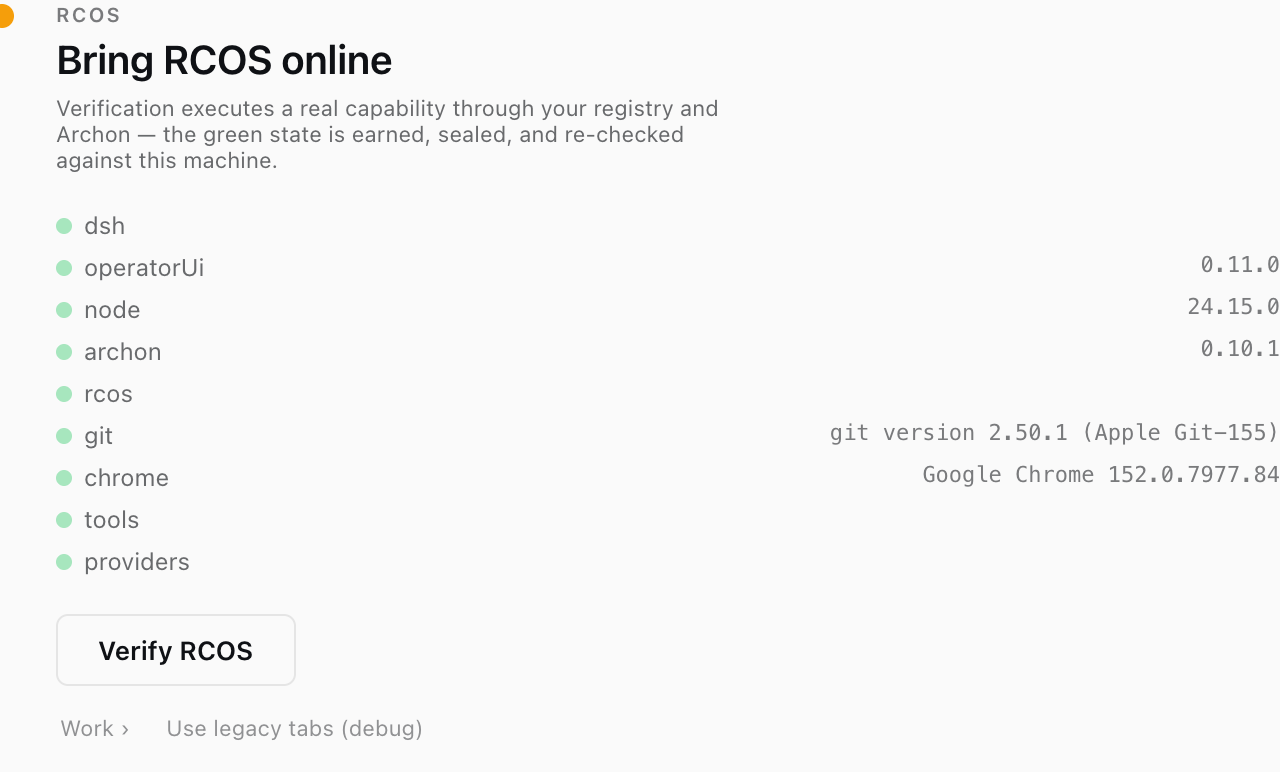
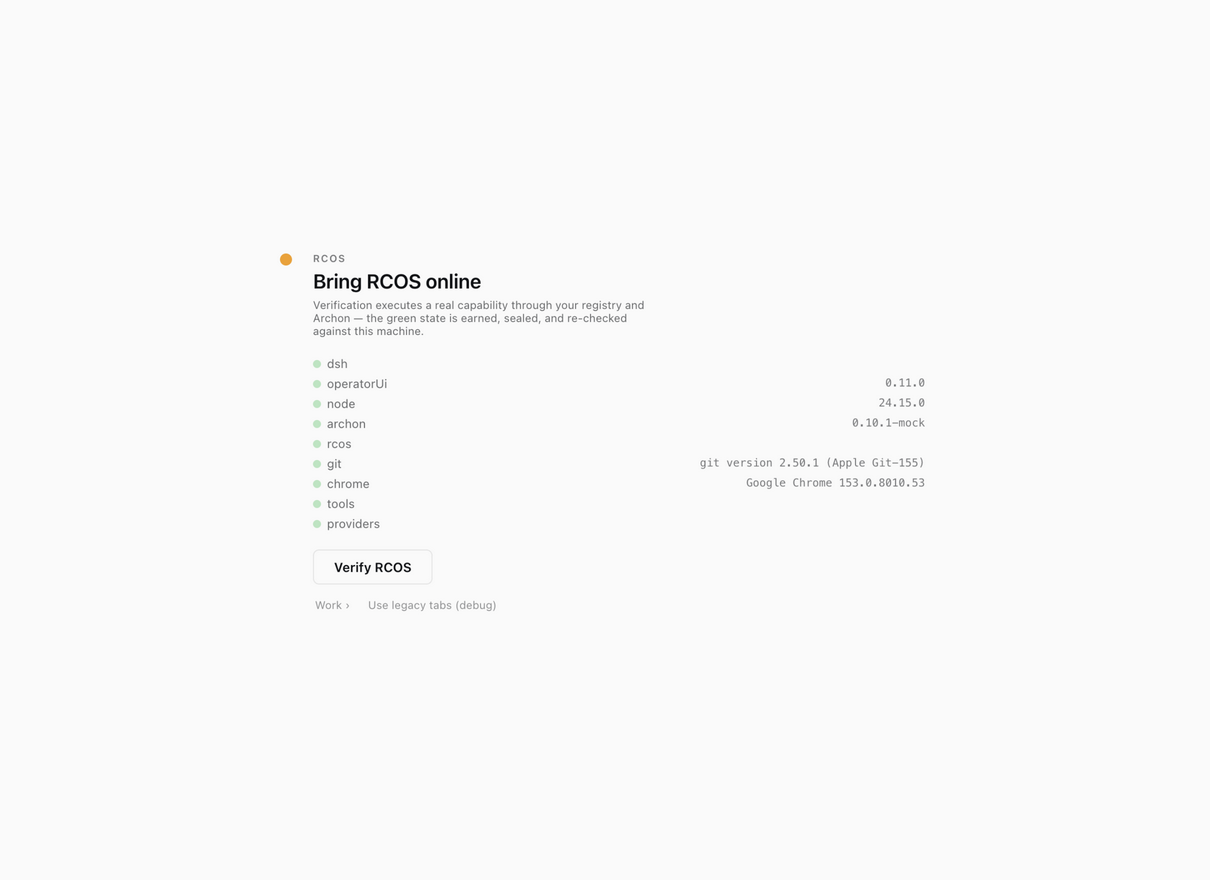
ui(RC): four release-blocking UI fixes + seven refreshed fixture captures + README truth pass — contract check PASS

diff --git a/lib/client.js b/lib/client.js
@@ -101,6 +101,12 @@ window.__ModuleLoader__.load({
 .opui-gate{position:fixed;inset:0;z-index:10000;display:flex;align-items:center;justify-content:center;background:var(--dsw-static-neutral-50,#f6f8fa);overflow:auto;padding:24px}
 body[data-ds-dark-theme] .opui-gate{background:var(--dsw-static-neutral-900,#0d1117)}
 .opui-gate-inner{max-width:1100px;width:100%;margin:auto}
+/* shell presentation overrides — this style element appends after vendor CSS,
+   so same-specificity ties win here without touching component markup */
+.wSkVaW_tabs{overflow-x:auto;scroll-behavior:smooth;scrollbar-width:thin}
+.wSkVaW_tabs::-webkit-scrollbar{height:6px}
+.wSkVaW_tabs::-webkit-scrollbar-thumb{background:rgba(128,128,128,.45);border-radius:3px}
+.FJxK0a_root{text-overflow:ellipsis}
 /* vertical execution spine — the visual hero */
 .opui-spine{position:relative;padding-left:4px}
 .opui-stage{position:relative;padding:0 0 20px 26px;border-left:2px solid var(--dsw-static-neutral-200,#eaeef2)}
@@ -1703,7 +1709,7 @@ body[data-ds-dark-theme] .opui-wf-art{border-color:var(--dsw-static-neutral-700,
               h('div', { className: 'opui-stage-title', style: { fontSize: 18 } }, heroTitle[0]),
               h('div', { className: 'opui-sub', style: { marginTop: 2 } }, heroSub))),
           h('div', { style: { display: 'flex', gap: 14, alignItems: 'center', marginTop: 10, flexWrap: 'wrap' } },
-            h('button', { className: 'opui-btn', onClick: runVerify }, 'Verify again'),
+            h('button', { className: 'opui-btn', onClick: runVerify }, rec ? 'Verify again' : 'Verify'),
             rec ? h('span', { className: 'opui-meta' },
               'Receipt ' + fresh.toLowerCase() + ' \u00b7 ' + ((rec.seal && rec.seal.hash) || '').slice(7, 23) + '\u2026') : null)),
         fresh === 'STALE' && vr && vr.staleReasons && vr.staleReasons.length > 1 ? h('div', { className: 'opui-meta', style: { marginBottom: 12 } },
@@ -1785,6 +1791,11 @@ body[data-ds-dark-theme] .opui-wf-art{border-color:var(--dsw-static-neutral-700,
       // on Work, not on the DSH home. The DSH shell stays reachable via the
       // nav's explicit 'DSH home' escape — preserved, never the default.
       const [open, setOpen] = useState('work'); // 'work' | 'intelligence' | 'system' | null (null = DSH shell)
+      // The gate's "Work ›" escape hatch must be distinguishable from the
+      // default landing surface: open already starts at 'work', so setOpen
+      // alone bails and the gate never yields. peeked records the explicit
+      // open; returning to the shell (open === null) puts the gate back.
+      const [peeked, setPeeked] = useState(false);
       const { vr, reload } = useReceiptGate();
       const [justVerified, setJustVerified] = useState(false);
       const gateRunRef = useRef(false);
@@ -1815,7 +1826,7 @@ body[data-ds-dark-theme] .opui-wf-art{border-color:var(--dsw-static-neutral-700,
       // First-run gate has priority: no VALID current genesis receipt ⇒
       // SYSTEM full-screen (NONE / STALE / TAMPERED each distinct).
       const fresh = vr ? vr.state : null;
-      const gateOpen = fresh !== null && fresh !== 'VALID';
+      const gateOpen = fresh !== null && fresh !== 'VALID' && !(peeked && open !== null);
       const SURFACES = {
         system: { label: 'System', el: h(SystemSurface, null) },
         work: { label: 'Work', el: null },          // Work needs ctx — see below
@@ -1833,7 +1844,7 @@ body[data-ds-dark-theme] .opui-wf-art{border-color:var(--dsw-static-neutral-700,
         h('button', { className: 'opui-copybtn', title: 'Open the DSH shell (sessions, chat)', onClick: () => setOpen(null) }, 'DSH home \u2192'));
       if (gateOpen) {
         return h(GateOverlay, {
-          onOpenSurface: (k) => setOpen(k),
+          onOpenSurface: (k) => { setOpen(k); setPeeked(true); },
           gateKind: fresh,
           onRerun: () => { gateRunRef.current = true; fetch('/plugins/operator-ui/verify', { method: 'POST' }).then(() => reload()).catch(() => {}); },
         });

diff --git a/README.md b/README.md
@@ -15,7 +15,7 @@ An operator console for the [RCOS](https://github.com/Foshowithit/rcos) capabili
 It is a side-loaded DSH plugin (a Cordis bundle patch), not a fork:
 
 - **No upstream changes.** One package, installed into a profile; removing it restores stock DSH exactly.
-- **No duplicate state.** Every rendered fact is authoritative Host state, read through the services the web profile already mounts (`ctx.sessions` list + projections + jobs) plus the Archon API and the capability registry. Nothing is polled from the renderer, nothing is inferred from chat text, and the plugin persists nothing of its own.
+- **No duplicate state.** Every rendered fact is authoritative Host state, read through the services the web profile already mounts (`ctx.sessions` list + projections + jobs) plus the Archon API and the capability registry. Nothing is polled from the renderer and nothing is inferred from chat text; the plugin's own durable state is limited to named files under the active `DSH_HOME` — the task store at `operator-ui/tasks.json`, the sealed `operator-ui/receipt.json`, and teaching workflow/eval paths only where configured.
 - **Additive seats.** It registers into the `conversation.view` list beside Conversation and Trajectory and into the shell's overlay slot. It never replaces shipped UI, and an installation that prefers the old tabs can stay on them.
 
 ## The RCOS control surface
@@ -32,9 +32,9 @@ On an installation that has not yet earned its receipt, the whole UI is the gate
 
 Select a task and you get its spine — REQUEST → ROUTE → EXECUTION → EVIDENCE → VERDICT — with the dots (Observed / Executed / Validated / Objective satisfied) as the at-a-glance state, the authority line ("Ask before acting"), and the next step spelled out. From there, **evidence →** opens the drawer a reviewer would ask for:
 
-![The evidence drawer: the claim, what supports it, and the observed outputs](docs/evidence.png)
+![The evidence drawer: Claim, Supported by, Execution, Observed outputs, Provenance](docs/evidence.png)
 
-Nothing is dressed up. A goal the installation cannot route is refused **before** execution — no Archon run, no fabricated evidence, spine columns reading "— (refused before execution)", verdict `FAILED · no-route` — and the surface offers bounded acquisition instead of pretending:
+Nothing is dressed up. A goal the installation cannot route is refused **before** execution — no Archon run, no fabricated evidence, verdict `FAILED · no-route`, objective evaluation reported as `not evaluated — refusal or legacy run`, and a bounded **Acquire capability** offer instead of pretending:
 
 ![A refused goal: no capability matched, so nothing ran](docs/work-refusal.png)
 
@@ -46,7 +46,7 @@ Nothing is dressed up. A goal the installation cannot route is refused **before*
 
 ![System: verified state, receipt hash, component inventory](docs/system.png)
 
-Every screenshot above comes from a sanitized demo home — one promoted capability (`word-count 1.0.0 → workflow word-count-v1`) executing over a scratch workspace. No real workspace data, paths or session titles.
+Every screenshot above comes from a sanitized fixture home — a demo capability registry of eight named capabilities, `example-*` workflows over a scratch workspace, and a mock Archon. No real workspace paths or credentials appear in these shots.
 
 ## The legacy tabs
 
@@ -143,9 +143,10 @@ The surfaces stay honest instead of pretending to work:
   execution with `registry not configured — set registry.path`
   (`registry-not-configured`); no run is dispatched, nothing is fabricated.
 - **Registry configured, nothing matches** — the goal is refused before
-  execution: the spine reads `— (refused before execution)`, the verdict is
-  `FAILED · no-route`, and the surface offers a bounded **Acquire capability**
-  step instead of a fake attempt (screenshot above).
+  execution: the verdict is `FAILED · no-route`, the objective evaluation
+  reads `not evaluated — refusal or legacy run`, and the surface offers a
+  bounded **Acquire capability** step instead of a fake attempt (screenshot
+  above).
 - **Intelligence** reports the truth: `No capabilities installed — add
   intelligence to give RCOS more to do.`
 
@@ -187,8 +188,13 @@ Two known issues are published deliberately:
 ## Layout
 
 ```
-lib/index.js    host half  — status route, config, verification, registry + Archon reads
-lib/client.js   client half — gate, Work, Intelligence, System, legacy tabs, palette
+lib/            24 modules — index.js boots the host half (status route,
+                config, verification, registry + Archon reads); client.js is
+                the client half (gate, Work, Intelligence, System, legacy
+                tabs, palette); the rest cover the durable task store,
+                evidence/authority, teaching, FlowRouter/federation,
+                history/status/sync, the supervised browser, and
+                config/discovery
 cordis.patch.yml bundle patch — one self-insert row
 ```
 
